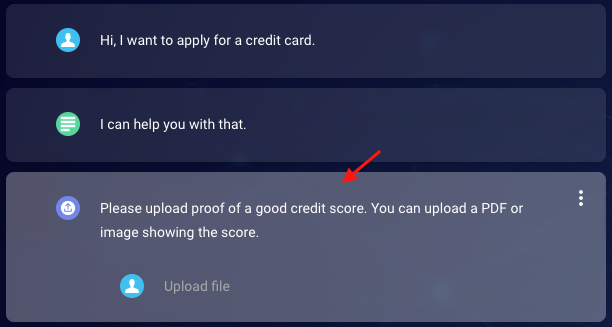
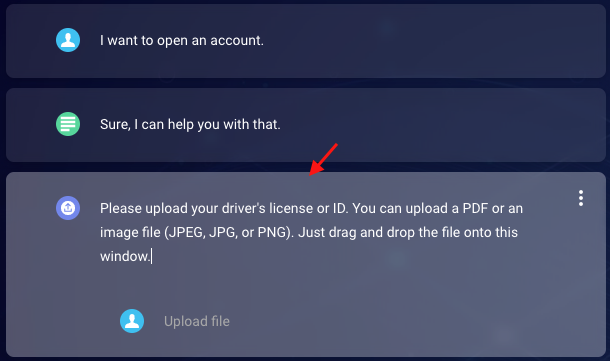
Add File Upload doc

diff --git a/pages/documents/ConversationalAI/ConversationBuilder/Interactions/interactions_integrations.md b/pages/documents/ConversationalAI/ConversationBuilder/Interactions/interactions_integrations.md
@@ -9,6 +9,56 @@ permalink: conversation-builder-interactions-integrations.html
 indicator: both
 ---
 
-Integration interactions often involve the bot querying an outside API or service and retrieving information from it.
+Integration interactions make programmatic calls to retrieve or post data to external systems and/or to perform actions. They perform their work and then execute the next action.
 
-See [Integration Basics](conversation-builder-integrations-integration-basics.html) for more information.
+If an integration retrieves data, that data can be stored in custom fields, so you can use it in subsequent interactions. For information on how to display variable data in interactions, see [here](conversation-builder-interactions-interaction-basics.html#display-variables-in-interactions).
+
+Integrations are similar to questions in that you can define conditions that each perform different next actions (based on which condition is met). One common use for this is to check whether the integration call was a success or failure and then to execute a next action that’s appropriate.
+
+### Integration interactions
+
+{: .important}
+Before you can add an Integration interaction, you need to create the integration itself. For details on this, see [here](conversation-builder-integrations-integration-basics.html#integration-types).
+
+**To add an Integration interaction**
+
+1. Select the interaction just above where you want to add the integration, and click <img style="width:35px" src="img/ConvoBuilder/icon_integration.png"> (Integration) on the interactions toolbar.
+2. In the interaction, select the name of the integration to invoke.
+
+    <img class="fancyimage" style="width:550px" src="img/ConvoBuilder/integrations_api.png">
+
+3. Finish configuring the interaction as desired, and click **Save**.
+
+### File Upload integration interactions
+
+Use a File Upload integration interaction in a dialog flow when you need the consumer to upload a file that you require. As examples, you might want to do this when the consumer needs to provide an ID card or a document demonstrating proof of a good credit score.
+
+In the chat window, the consumer can upload the file by either dragging and dropping it into the window, or selecting the upload icon and following the prompts.
+
+(consumer-side image)
+
+The following are some important notes:
+
+- The uploaded file can’t be over 5 MB.
+- While LivePerson temporarily stores exchanged files for the duration of the conversation, it does not provide for their permanent storage. You'll need to follow a *File Upload* integration interaction--which uploads the file to the LiveEngage environment--with an *Integration* interaction that posts the file to your external file share or system. More on this below.
+- Exchanged content must obey LivePerson’s Terms & Conditions, and the brand itself is responsible for checking exchanged files for malicious content.
+
+**To add a File Upload integration interaction**
+
+1. Select the interaction just above where you want to add the File Upload interaction, and click <img style="width:35px" src="img/ConvoBuilder/icon_fileUpload.png"> (File Upload) on the interactions toolbar.
+2. In the File Upload interaction, enter the message to send to the consumer.
+
+    <img class="fancyimage" style="width:550px" src="img/ConvoBuilder/integrations_fileUpload2.png">
+
+3. Still in the File Upload interaction, open the **Interaction Details**, click **Settings**, and specify the following in the **File Upload Settings**:
+    - **Accept File Types**: Select the types of files that will be accepted for upload (PDF, JPEG, PNG, DOCx, and so on). You might want to include mention of the acceptable file types in the message that's sent to the consumer, as we've done in the image above.
+    - **Success message**: Enter the message that’s displayed to the consumer if the upload is successful.
+    - **In progress message**: Enter the message that’s displayed to the consumer while the upload is in progress.
+4. Finish configuring the interaction as desired, and click **Save**.
+    
+{: .important}
+The steps above complete the process of adding the File Upload interaction, but it only handles upload of the file to the LiveEngage environment. Now you need to immediately follow with an Integration interaction that handles passing the file to your external system.
+
+<img class="fancyimage" style="width:550px" src="img/ConvoBuilder/integrations_fileUpload3.png">
+
+For details on adding the Integration interaction, see the section farther [above](conversation-builder-interactions-integrations.html#integration-interactions). And for details on creating the integration itself, which must be of type File, see [File Integrations](conversation-builder-integrations-file-integrations.html).

diff --git a/_exclude/interactions_TEMP.md b/_exclude/interactions_TEMP.md
@@ -234,46 +234,3 @@ Once a user makes their selection in the list picker, the reply is sent back to 
 
 <img style="width:350px" src="img/ConvoBuilder/questions_listPicker4.png">
 
-INTEGRATIONS
-
-Integration interactions make programmatic (API) calls to retrieve or post data to external systems and/or to perform actions. They perform their work and then execute the next action.
-
-If an integration retrieves data, that data can be stored in custom fields, so you can use it in subsequent interactions. For information on how to display variable data in interactions, see [here](conversation-builder-interactions-interaction-basics.html#display-variables-in-interactions).
-
-Integrations are similar to questions in that you can define conditions that each perform different next actions (based on which condition is met). One common use for this is to check whether the integration call was a success or failure and then to execute a next action that’s appropriate.
-
-When you add an integration interaction, you need to select the API integration that the interaction should invoke. And then you can configure the rest of the interaction details the way you do for any interaction.
-
-<img class="fancyimage" style="width:550px" src="img/ConvoBuilder/integrations_api.png">
-
-### File Upload integrations
-
-Use a File Upload integration in a dialog flow when you need the consumer to upload a file that you require. As examples, you might want to do this when the consumer needs to provide an image of their bill or receipt, an ID card, or a PDF demonstrating proof of a good credit score. 
-
-The following are some important notes:
-
-- The uploaded file can’t be over 5 MB.
-- Exchanged content must obey LivePerson’s Terms & Conditions.
-- While LivePerson temporarily stores exchanged files for the duration of the conversation, it does not provide for their permanent storage.
-- The brand itself is responsible for checking exchanged files for malicious content.
-
-The upload is performed by either dragging and dropping the files into the chat window, or selecting the upload icon and following the prompts.
-
-(consumer-side image)
-
-**To add a File Upload integration**
-
-1. Select the interaction just above where you want to add the integration, and click <img style="width:25px" src="img/ConvoBuilder/icon_fileUpload.png"> on the interactions toolbar.
-2. In the interaction, enter the message to send to the consumer.
-
-    <img class="fancyimage" style="width:550px" src="img/ConvoBuilder/integrations_fileUpload2.png">
-
-3. Open the **Interaction Details**, click **Settings**, and specify the following in the **File Upload Settings**:
-    - **Accept File Types**: Select the types of files that will be accepted for upload.
-    - **Success message**: Enter the message that’s displayed to the consumer if the upload is successful.
-    - **In progress message**: Enter the message that’s displayed to the consumer while the upload is in progress.
-
-**Passing the uploaded file to an API integration**
-
-TBA
-

diff --git a/pages/documents/ConversationalAI/ConversationBuilder/Integrations/integrations_file.md b/pages/documents/ConversationalAI/ConversationBuilder/Integrations/integrations_file.md
@@ -1,0 +1,29 @@
+---
+pagename: File integrations
+Keywords:
+sitesection: Documents
+categoryname: "Conversational AI"
+documentname: Conversation Builder
+subfoldername: Integrations
+permalink: conversation-builder-integrations-file-integrations.html
+indicator: both
+---
+
+intro to be added
+
+**To add an File integration**
+
+1. Open the bot, and click **Integrations** in the upper-right corner.
+2. Configure the integration settings (required fields are marked with asterisks):
+    - **Integration Name**: Enter the name of integration. Enter a name that's meaningful (it describes well the integration's purpose), concise, and follows a consistent pattern. This helps with organization, and it makes it easier for bot developers to work with the integration during bot development.
+    - **Response Data Variable Name**: Enter the name of the response data variable.
+    - **Integration Type**: Select **File**.
+    - **Method**: Select the type of HTTP request method.
+    - **URL**: Enter the request target, the URL.
+    - **Credential**: Select the [credential](bot-accounts-credentials.html) to use for authentication if applicable. The bot will automatically enhance the request based on the credential's type and data.
+    - **Request Headers**: Add any message headers to include in the request.
+    - **Request Parameters**: Add the request parameters to pass in the URL’s query string.
+    - **Post Body**: Enter the payload to send.
+    - **Transform Result Script**: If applicable, use this section to write JavaScript code that transforms the raw result (typically in JSON format), so you can use the information in the bot's dialog. For more on this, see [Transform an API result](conversation-builder-integrations-integration-basics.html#transform-an-api-result).
+    - **Custom Data Fields**: Add the fields that will store the result data in key/value pairs. Users who are tasked with creating bots can use and display this data in interactions by referencing these fields as described [here](conversation-builder-interactions-interaction-basics.html#display-variables-in-interactions).
+3. Click **Save**.

diff --git a/pages/documents/ConversationalAI/ConversationBuilder/Integrations/Integrations.md b/pages/documents/ConversationalAI/ConversationBuilder/Integrations/Integrations.md
@@ -25,6 +25,7 @@ An integration can be one of the following types:
 - **Email**: Use an Email integration when you want Conversation Builder to send an email as the result of a bot's dialog flow. For example, if the consumer completes a survey, you might want to send a thank you email to the consumer or send the survey results to a moderator or administrator for collection.
 - **Knowledge Base**: Use this type to search a knowledge base for articles. One use case for this type of integration is within a [fallback dialog](conversation-builder-dialogs-fallback-dialogs.html) to funnel user utterances into a knowledge base search. If an appropriate search result is found, it can be displayed; if no results are found, you might then display a "sorry" message or escalate the conversation to a human agent. 
 - **LivePerson Agent Escalation**: This type of integration transfers the conversation to a human agent or another bot.
+- **File**: 
 - **FaaS**: Use a FaaS integration to invoke a function (`lambda`) that is deployed to the [LivePerson Functions](liveperson-functions-overview.html) (Function as a Service or FaaS) platform. There are no constraints here; if there is some custom logic (a function) you want to invoke with a bot, you can do it with a [FaaS integration](#add-a-faas-integration).
 
 ### Check the API response status

diff --git a/pages/documents/ConversationalAI/ConversationBuilder/Troubleshooting/troubleshootInteractions.md b/pages/documents/ConversationalAI/ConversationBuilder/Troubleshooting/troubleshootInteractions.md
@@ -19,7 +19,3 @@ Messages sometimes can be delivered out of order because, behind the scenes, the
 #### Long messages are broken into smaller ones
 
 A single text interaction has a limit of 320 characters on the word boundary before it gets split into 2 parts. This means that large blocks of text that exceed the limit are broken into smaller messages. However, if desired, you can control exactly where the break occurs using a special tag. For more information, see the section on formatting text in interactions, which is [here](conversation-builder-interactions-interaction-basics.html#format-text).
-
-#### Quick Reply options don’t appear in Facebook Messenger
-
-In Facebook Messenger, a Quick Reply question can have a maximum of 13 reply options, so additional options beyond the first three defined aren’t shown.

diff --git a/pages/documents/ConversationalAI/ConversationBuilder/Integrations/integrations_knowledgeBase.md b/pages/documents/ConversationalAI/ConversationBuilder/Integrations/integrations_knowledgeBase.md
@@ -21,7 +21,7 @@ One use case for this type of integration is within a fallback dialog to funnel 
     - **Response Data Variable Name**: Enter the name of the response data variable.
     - **Integration Type**: Select **Knowledge Base**.
     
-    <img class="fancyimage" style="width:600px" src="img/ConvoBuilder/integrations_kb.png">
+    <img class="fancyimage" style="width:700px" src="img/ConvoBuilder/integrations_kb.png">
     
     - **Knowledge Base**: Select the knowledge base to search. You can select from all public knowledge bases that exist under your organization.
     - **Methods**:
